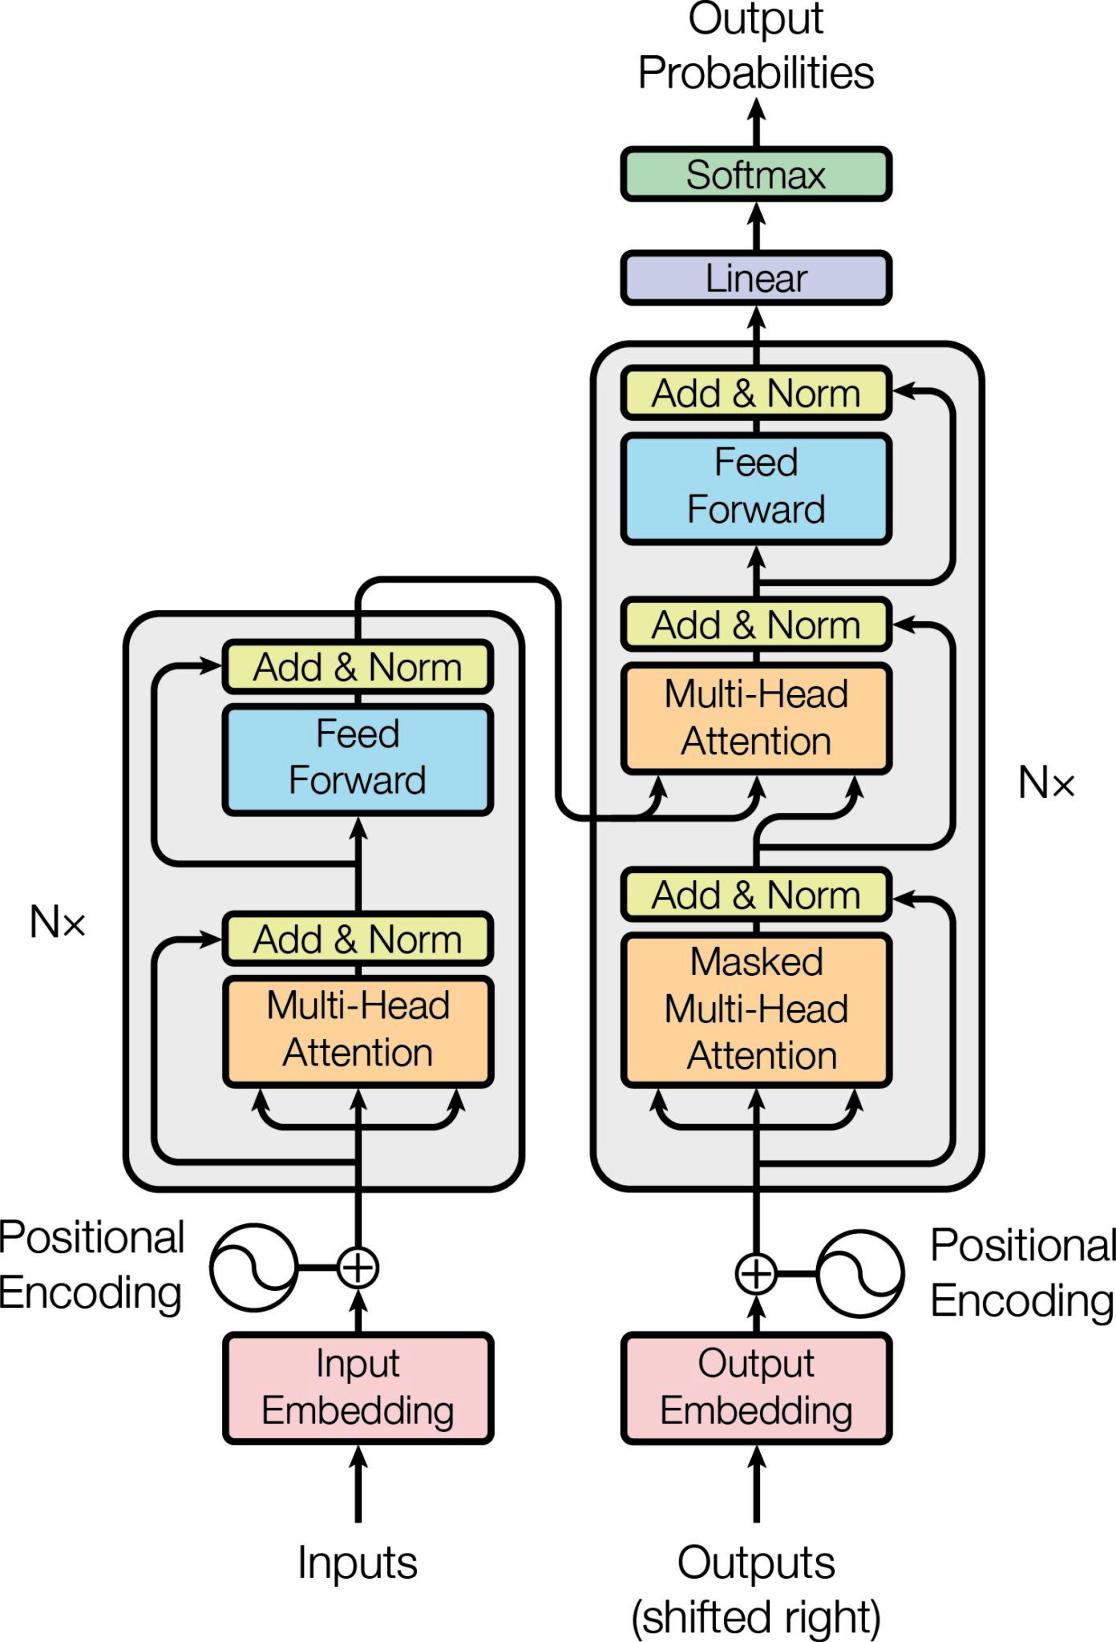
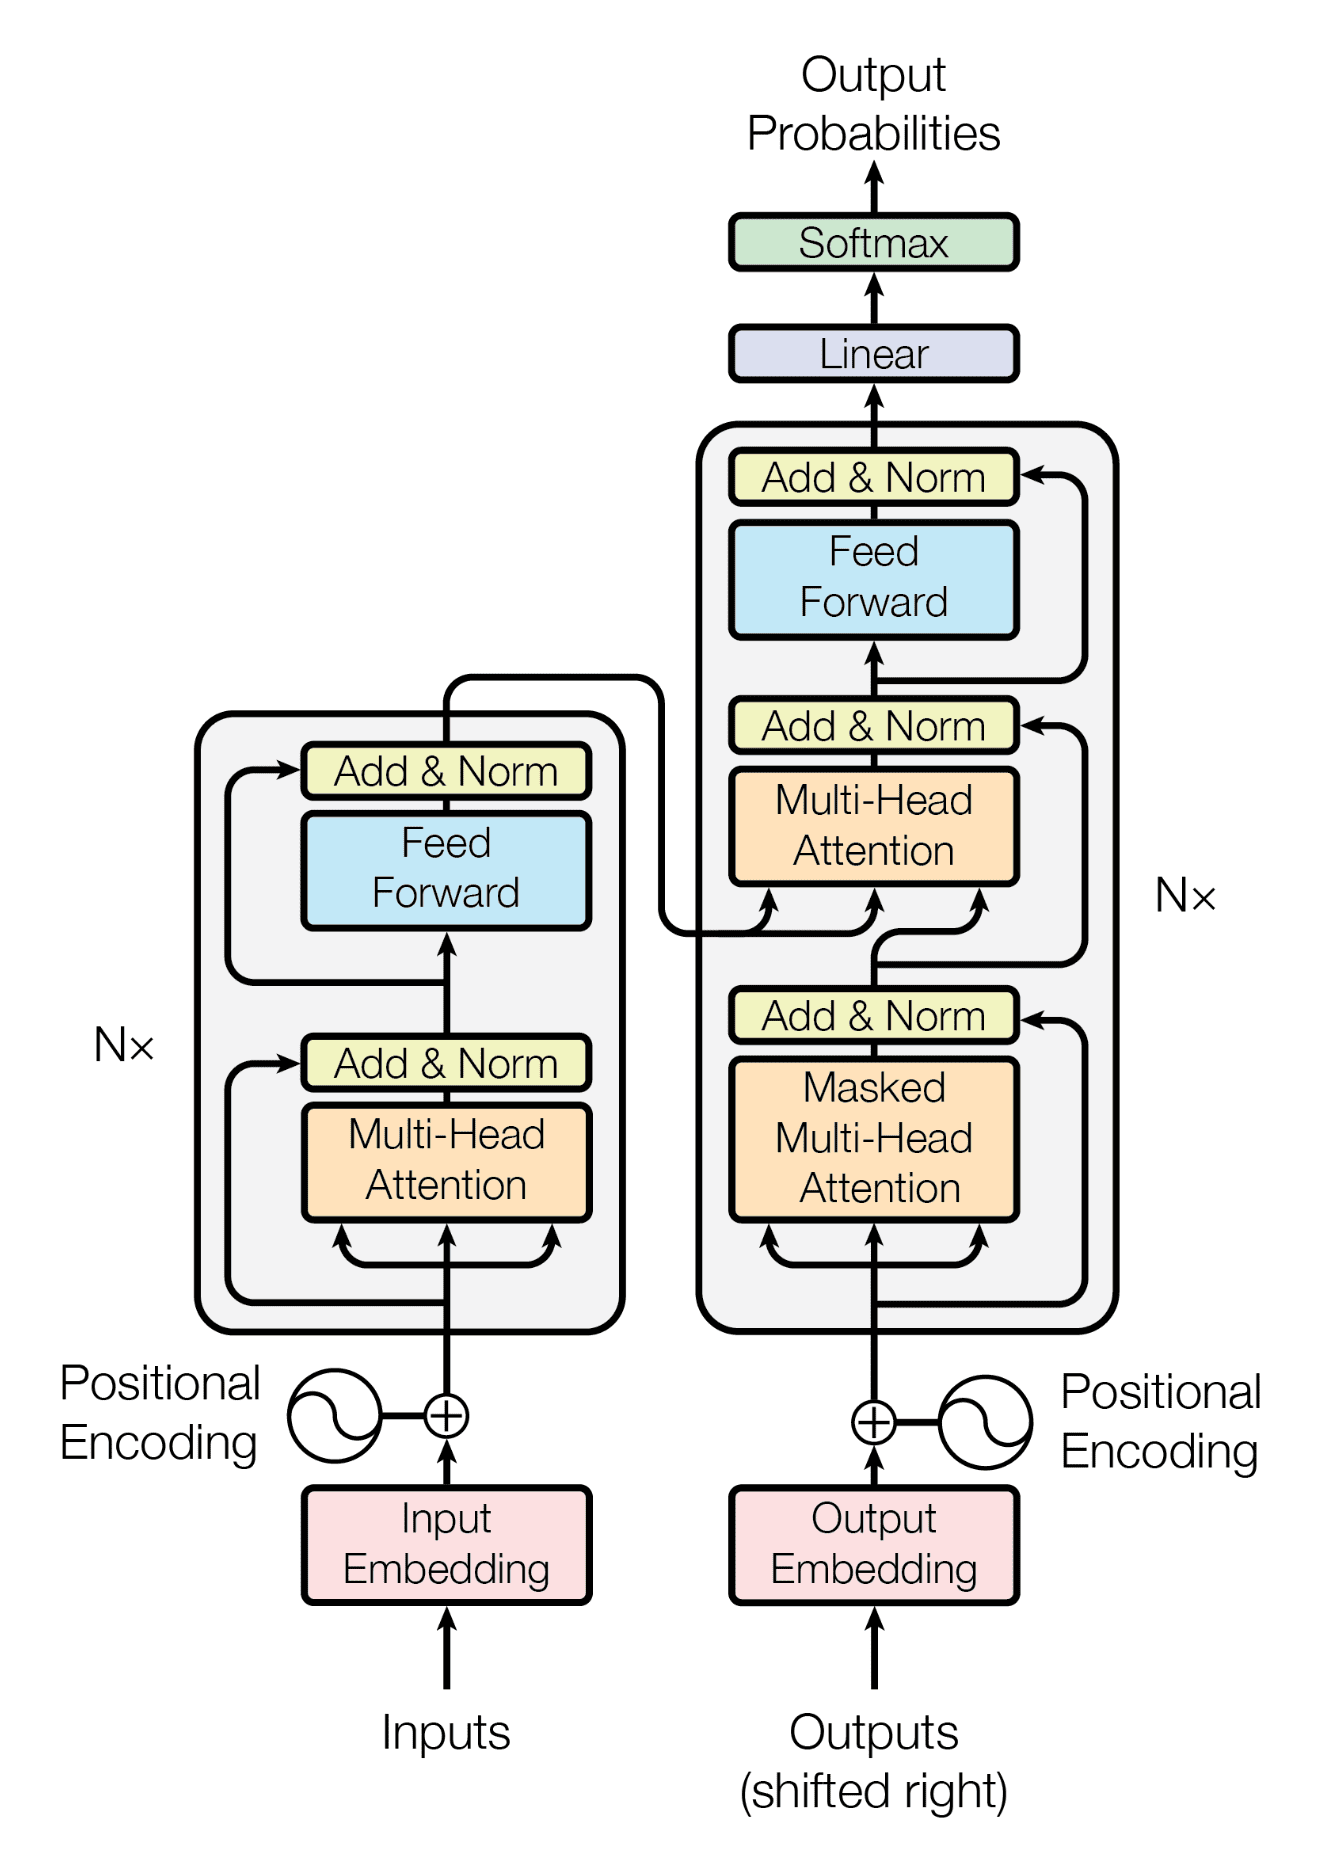
updated transformer architecture image

Changed region(s): [[0.0, 0.0, 1.0, 1.0]]

diff --git a/README.md b/README.md
@@ -1,5 +1,7 @@
 # transformers-from-scratch
-Minimal PyTorch implementations, micro-demos, and slides to really understand Transformers.
+Minimal PyTorch implementation, micro-demos, and slides to really understand Transformers.
+
+<img src="./images/transformer-architecture.png" alt="transformer" width="500"/>
 
 A practical, from-first-principles walk through the Transformer:
 - **Embeddings & positions** --> why order matters
